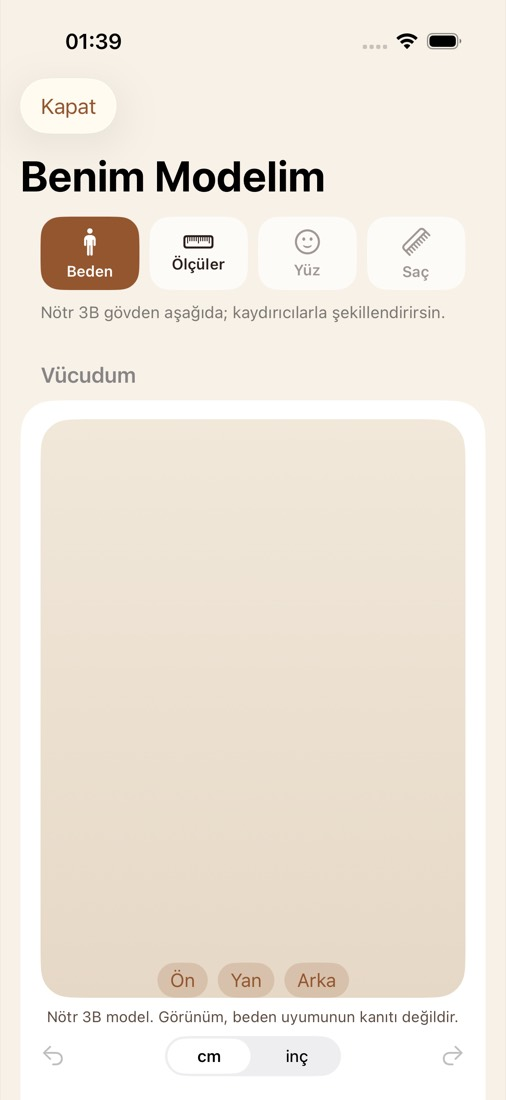
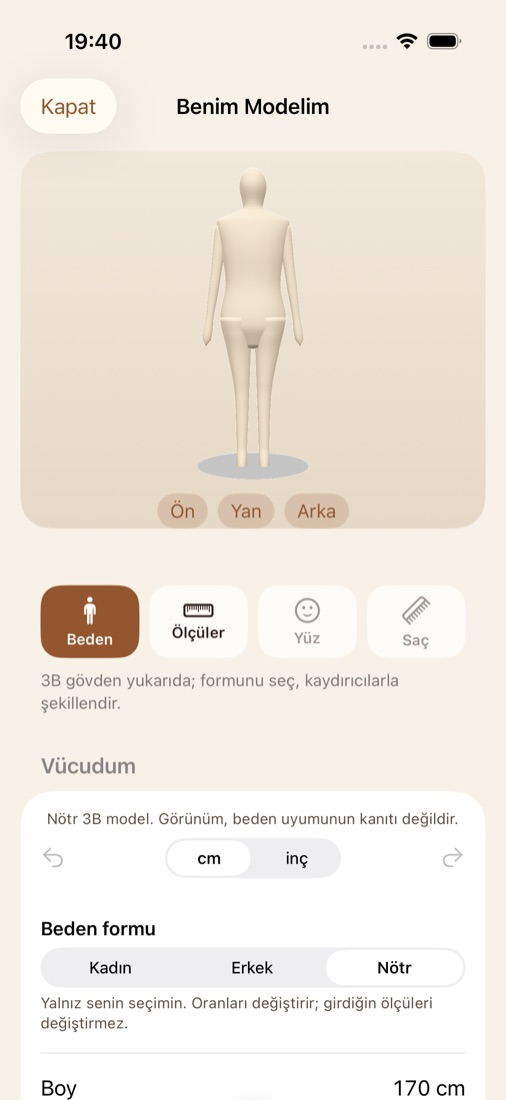
Refresh profile screenshots for the fixed-figure layout (ADR-016)
08-16 and G12-G14 come from the 30/30 full UI run, BFORM-UI-* from the
final-build form test. The 3D figure is drawn and fixed above the list on
every profile screen; the README note about an undrawn BFORM-UI-02 is gone.

diff --git a/docs/screenshots/app-2026-11-04/README.md b/docs/screenshots/app-2026-11-04/README.md
@@ -44,11 +44,13 @@ ADR16-*: figür yalnız elle döner (sürükle/savur, "Önden" ile geri), Giydir
 
 ## Benim Modelim ve gizlilik
 
+Yenilendi (2026-11-04 akşam, ADR-016 düzeltmesi sonrası, D-052): 3B figür profilin üstünde sabit duruyor, liste altından kayıyor. 08–16, G12–G14 tam UI koşusundan (30/30), BFORM-UI-* son derlemenin form testinden. 12'de termal kritik bütçe 3B'yi kapatır; liste bel satırına kaydırılmış olduğu için çizim görünmüyor. v32-S09 Canlı Ayna'nın model çubuğu, profil düzeninden etkilenmedi.
+
 <img src="07-benim-modelim/08-deletion-receipt.jpg" width="220" alt="08-deletion-receipt" title="08-deletion-receipt"> <img src="07-benim-modelim/08b-body-neutral-start.jpg" width="220" alt="08b-body-neutral-start" title="08b-body-neutral-start"> <img src="07-benim-modelim/09-body-studio-slider.jpg" width="220" alt="09-body-studio-slider" title="09-body-studio-slider"> <img src="07-benim-modelim/10-body-studio-measured.jpg" width="220" alt="10-body-studio-measured" title="10-body-studio-measured"> <img src="07-benim-modelim/11-body-deleted.jpg" width="220" alt="11-body-deleted" title="11-body-deleted"> <img src="07-benim-modelim/12-body-studio-thermal-critical.jpg" width="220" alt="12-body-studio-thermal-critical" title="12-body-studio-thermal-critical"> <img src="07-benim-modelim/13-body-3d-front.jpg" width="220" alt="13-body-3d-front" title="13-body-3d-front"> <img src="07-benim-modelim/14-body-3d-side.jpg" width="220" alt="14-body-3d-side" title="14-body-3d-side"> <img src="07-benim-modelim/15-body-3d-back.jpg" width="220" alt="15-body-3d-back" title="15-body-3d-back"> <img src="07-benim-modelim/16-body-3d-dragged.jpg" width="220" alt="16-body-3d-dragged" title="16-body-3d-dragged"> <img src="07-benim-modelim/G12-benim-modelim.jpg" width="220" alt="G12-benim-modelim" title="G12-benim-modelim"> <img src="07-benim-modelim/G13-benim-modelim-3b-govde.jpg" width="220" alt="G13-benim-modelim-3b-govde" title="G13-benim-modelim-3b-govde"> <img src="07-benim-modelim/G14-gizlilik.jpg" width="220" alt="G14-gizlilik" title="G14-gizlilik"> <img src="07-benim-modelim/v32-S09-model-bar.jpg" width="220" alt="v32-S09-model-bar" title="v32-S09-model-bar">
 
 <sub>08-deletion-receipt · 08b-body-neutral-start · 09-body-studio-slider · 10-body-studio-measured · 11-body-deleted · 12-body-studio-thermal-critical · 13-body-3d-front · 14-body-3d-side · 15-body-3d-back · 16-body-3d-dragged · G12-benim-modelim · G13-benim-modelim-3b-govde · G14-gizlilik · v32-S09-model-bar</sub>
 
-V36-01 (ADR-017): Kadın / Erkek / Nötr beden formu. Başlangıç şekli seçilen formla çizilir; form değişince girilen ölçü (71 cm) aynen kalır, başlangıç değerleri forma göre değişir. BFORM-UI-02 aynı testin 06:02 koşusundan: son koşuda 3B alan boş çekildi (ADR-016 bilinen açığı, simülatörde RealityView bazen çizilmiyor).
+V36-01 (ADR-017): Kadın / Erkek / Nötr beden formu. Başlangıç şekli seçilen formla çizilir; form değişince girilen ölçü (71 cm) aynen kalır, başlangıç değerleri forma göre değişir.
 
 <img src="07-benim-modelim/BFORM-UI-01-start-picker.jpg" width="220" alt="BFORM-UI-01-start-picker" title="BFORM-UI-01-start-picker"> <img src="07-benim-modelim/BFORM-UI-02-feminine.jpg" width="220" alt="BFORM-UI-02-feminine" title="BFORM-UI-02-feminine"> <img src="07-benim-modelim/BFORM-UI-03-masculine.jpg" width="220" alt="BFORM-UI-03-masculine" title="BFORM-UI-03-masculine"> <img src="07-benim-modelim/BFORM-UI-04-relaunched.jpg" width="220" alt="BFORM-UI-04-relaunched" title="BFORM-UI-04-relaunched"> <img src="07-benim-modelim/BFORM-UI-05-home-follows-form.jpg" width="220" alt="BFORM-UI-05-home-follows-form" title="BFORM-UI-05-home-follows-form">
 
